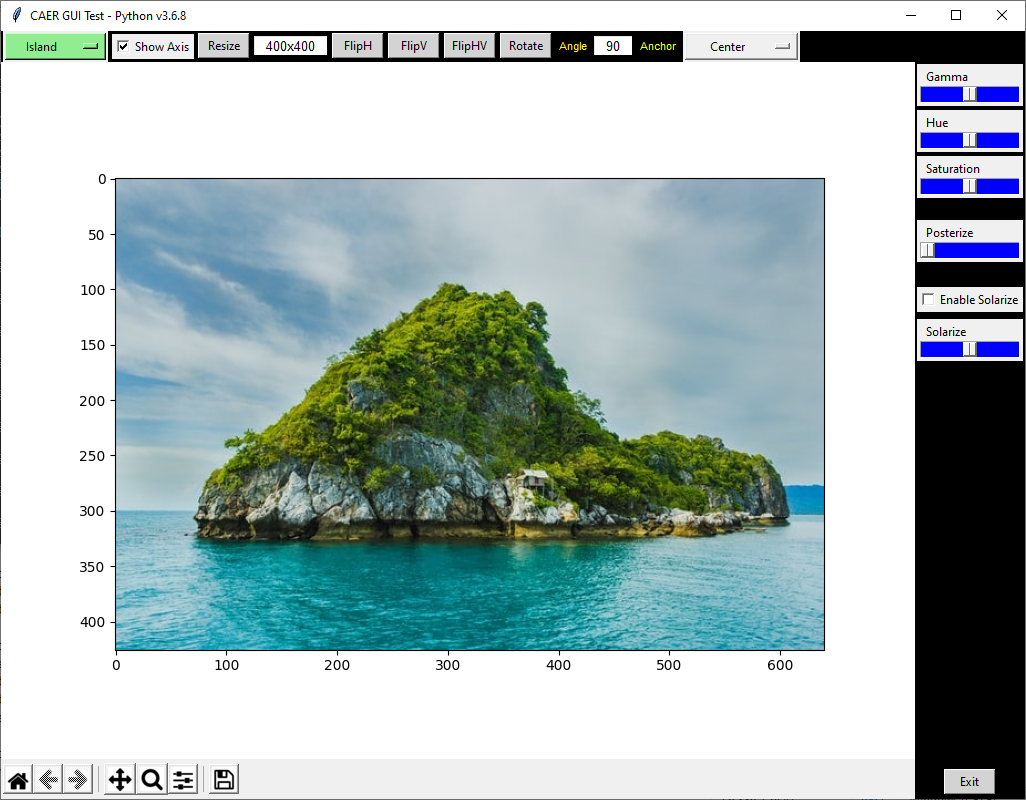
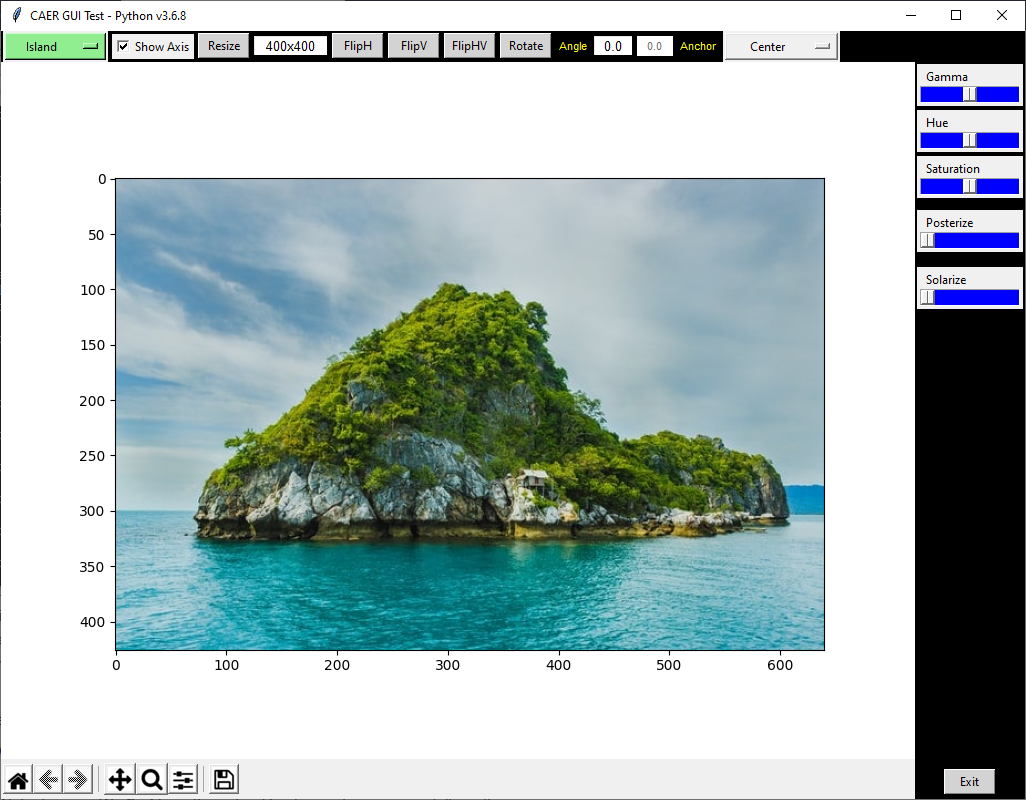
Rotation button set to rotate image with every tap
- Added label to show currently accumulated angle
- All rotation angle values reduced to range [-359, 359] while -360 and 360 values will be represented with 0
- BUG fix for missed 'Top Left' anchor not being renamed with previous update
- Removed the 'Enable Solarize' checkbox and changed the 'Solarize' slider so it can work on its own
- Updated comments
- Updated app's picture

Changed region(s): [[0.8733, 0.25, 0.9981, 0.4688], [0.5926, 0.0312, 0.8421, 0.0938], [0.9981, 0.0, 1.0, 0.0312]]

diff --git a/examples/caer_gui_test.py b/examples/caer_gui_test.py
@@ -1,4 +1,7 @@
-# Simple tkinter GUI app designed to showcase some caer features
+# Simple tkinter GUI app example, designed to showcase some caer features
+# Should only be used as a base to create a new GUI
+# It can be re-designed, controls re-grouped and code improved
+
 # Requirements: python3, caer, matplotlib
 
 # Run it either via IDLE or from command prompt / terminal with one of these commands:
@@ -9,15 +12,21 @@
 
 # Tested as working in Windows 10 with python v3.6.8 and Kubuntu Linux with python v3.6.8
 # You can select one of 9 built-in images to display (startup has "Island" selected as default)
+# Selecting any of the images, at any point in time, will always start with a fresh original image and reset controls.
 # Replace with or add your own image(s) by following the instructions here: https://caer.readthedocs.io/en/latest/api/io.html
 # The above will require that you modify main() and show_original_image() functions
 # All function controls are set to manipulate the currently displayed image
+# Gamma, Hue, Saturation, Posterize and Solarize effects are currently somewhat unique and, when applied to the image, will follow the following rule:
+# - Applying 'Resize', 'Rotate' and/or any of the 'Flip' functions to transformed image will preserve that image and have all the sliders reset
+# The above mentioned could be corrected by changing all those buttons to checkboxes and applying all the effects within a single function (similar to the current adjust_ghsps() function)
+# The 'Rotation' button is currently set to keep on rotating the image with every tap
 
 from matplotlib.backends.backend_tkagg import FigureCanvasTkAgg, NavigationToolbar2Tk
 from matplotlib.figure import Figure
 
 from tkinter import *
 import platform
+import math
 import caer
 
 pythonVersion = platform.python_version()
@@ -25,6 +34,8 @@ pythonVersion = platform.python_version()
 def show_original_image(*args):
     global currentImage
     global rotationApplied
+    global lblCurrentAngle
+    global currentAngle
     global resizedImgBtn
     global flipHImgBtn
     global flipVImgBtn
@@ -64,7 +75,10 @@ def show_original_image(*args):
         currentImage = caer.data.guitar(rgb=True)
 
     rotationApplied = False
-    reset_ghs()
+    currentAngle = 0.0
+    lblCurrentAngle['text'] = str(currentAngle)
+    selectedAngle.set('0.0')
+    reset_ghsps()
 
     image_show(currentImage)
 
@@ -96,14 +110,14 @@ def show_resized_image():
 
             if not transformedImage is None:
                 currentImage = transformedImage
-                reset_ghs()
+                reset_ghsps()
 
             # Resize the image without preserving aspect ratio
             currentImage = caer.resize(currentImage, target_size=(int(size[0]),int(size[1])), preserve_aspect_ratio=False)
             currentImage.cspace = 'rgb'
 
             if rotationApplied:
-                show_rotated_image()
+                show_rotated_image(True)
             else:
                 image_show(currentImage)
         except Exception as e:
@@ -131,13 +145,13 @@ def show_h_flipped_image():
 
     if not transformedImage is None:
         currentImage = transformedImage
-        reset_ghs()
+        reset_ghsps()
 
     currentImage = caer.transforms.hflip(currentImage)
     currentImage.cspace = 'rgb'
 
     if rotationApplied:
-        show_rotated_image()
+        show_rotated_image(True)
     else:
         image_show(currentImage)
 
@@ -163,13 +177,13 @@ def show_v_flipped_image():
 
     if not transformedImage is None:
         currentImage = transformedImage
-        reset_ghs()
+        reset_ghsps()
 
     currentImage = caer.transforms.vflip(currentImage)
     currentImage.cspace = 'rgb'
 
     if rotationApplied:
-        show_rotated_image()
+        show_rotated_image(True)
     else:
         image_show(currentImage)
 
@@ -195,19 +209,21 @@ def show_hv_flipped_image():
 
     if not transformedImage is None:
         currentImage = transformedImage
-        reset_ghs()
+        reset_ghsps()
 
     currentImage = caer.transforms.hvflip(currentImage)
     currentImage.cspace = 'rgb'
 
     if rotationApplied:
-        show_rotated_image()
+        show_rotated_image(True)
     else:
         image_show(currentImage)
 
-def show_rotated_image():
+def show_rotated_image(external = False):
     global currentImage
     global rotationApplied
+    global lblCurrentAngle
+    global currentAngle
     global resizedImgBtn
     global flipHImgBtn
     global flipVImgBtn
@@ -217,18 +233,34 @@ def show_rotated_image():
     angle = selectedAngle.get()
 
     if angle == '':
-        angle = '0'
+        angle = '0.0'
+        currentAngle = 0.0
         rotationApplied = False
-    elif angle == '0' or ((float(angle) > 0 or float(angle) < 0) and float(angle) % 360 == 0):
+    elif angle == '0.0' or ((float(angle) > 0 or float(angle) < 0) and math.fmod(float(angle), 360) == 0):
+        currentAngle = 0.0
         rotationApplied = False
     else:
-        rotationApplied = True
+        if not external:
+            currentAngle += float(angle)
 
-    anchor = None # Center point
+        mod = math.fmod(currentAngle, 360)
+
+        if currentAngle > 360 or currentAngle < -360:
+            currentAngle = mod
+            rotationApplied = True
+        elif mod == 0:
+            currentAngle = 0.0
+            rotationApplied = False
+        else:
+            rotationApplied = True
+
+    lblCurrentAngle['text'] = str(currentAngle)
 
     tempAnchorPoint = anchorSelection.get()
 
-    if tempAnchorPoint == 'Top Left':
+    if tempAnchorPoint == 'Center':
+        anchor = None
+    elif tempAnchorPoint == 'TopLeft':
         anchor = (0, 0)
     elif tempAnchorPoint == 'TopMiddle':
         anchor = ((currentImage.width() // 2), 0)
@@ -261,12 +293,12 @@ def show_rotated_image():
         # preserve current image and only display its rotated version
 
         if not transformedImage is None:
-            rot = caer.transforms.rotate(transformedImage, float(angle), rotPoint=anchor)
+            rot = caer.transforms.rotate(transformedImage, float(currentAngle), rotPoint=anchor)
             if not rotationApplied:
                 currentImage = transformedImage
-                reset_ghs()
+                reset_ghsps()
         else:
-            rot = caer.transforms.rotate(currentImage, float(angle), rotPoint=anchor)
+            rot = caer.transforms.rotate(currentImage, float(currentAngle), rotPoint=anchor)
 
         rot.cspace = 'rgb'
 
@@ -288,12 +320,7 @@ def refresh_axis():
 
     fig.canvas.draw()
 
-def enable_solarize():
-    sliderSolarize['state'] = 'normal' if checkEnableSolarize.get() == 1 else 'disabled'
-    solarize.set(128)
-    adjust_hsgps(None)
-
-def adjust_hsgps(*args):
+def adjust_ghsps(*args):
     global transformedImage
 
     # apply all transformations to currently displayed image
@@ -304,24 +331,23 @@ def adjust_hsgps(*args):
     if posterize.get() < 6:
         transformedImage = caer.transforms.posterize(transformedImage, posterize.get())
 
-    if checkEnableSolarize.get() == 1:
+    if solarize.get() < 255:
         transformedImage = caer.transforms.solarize(transformedImage, solarize.get())
 
     transformedImage.cspace = 'rgb'
     
     if rotationApplied:
-        show_rotated_image()
+        show_rotated_image(True)
     else:
         image_show(transformedImage)
 
-def reset_ghs():
+def reset_ghsps():
     global transformedImage
     global imgGamma
     global hue
     global saturation
     global posterize
     global solarize
-    global checkEnableSolarize
 
     transformedImage = None
 
@@ -330,8 +356,7 @@ def reset_ghs():
     hue.set(0.0)
     saturation.set(1.0)
     posterize.set(6)
-    checkEnableSolarize.set(0)
-    solarize.set(128)
+    solarize.set(255)
 
 def main():
     global root
@@ -342,7 +367,6 @@ def main():
     global transformedImage
     global imageSelection
     global checkShowAxis
-    global checkEnableSolarize
     global sliderSolarize
     global resizedImgBtn
     global flipHImgBtn
@@ -355,6 +379,8 @@ def main():
     global rotationAngle
     global anchorSelection
     global rotationApplied
+    global lblCurrentAngle
+    global currentAngle
     global imgGamma
     global hue
     global saturation
@@ -369,6 +395,7 @@ def main():
     currentImage = None
     transformedImage = None
     rotationApplied = False
+    currentAngle = 0.0
 
     # bind the 'q' keyboard key to quit
     root.bind('q', lambda event:root.destroy())
@@ -429,7 +456,11 @@ def main():
     selectedAngle = StringVar()
     rotationAngle = Entry(frame1, justify=CENTER, textvariable=selectedAngle, font='Helvetica 10', width=5, bg='white', relief=RAISED)
     rotationAngle.pack(side=LEFT, padx=2, pady=2)
-    selectedAngle.set('90')
+    selectedAngle.set('0.0')
+
+    # create a read-only label for the current angle
+    lblCurrentAngle = Label(frame1, text='0.0', state='disabled', fg='lightgrey', bg='white', font='Helvetica 8', width=5)
+    lblCurrentAngle.pack(side=LEFT, padx=2, pady=2)
 
     # create a label for the rotation anchor
     lblAnchor = Label(frame1, text='Anchor', fg='yellow', bg='black', font='Helvetica 8')
@@ -453,39 +484,33 @@ def main():
 
     # create the image gamma slider control
     imgGamma = DoubleVar()
-    sliderGamma = Scale(frame2, label='Gamma', variable=imgGamma, troughcolor='blue', from_=0.0, to=2.0, resolution=0.1, sliderlength=15, showvalue=False, orient=HORIZONTAL, command=adjust_hsgps)
+    sliderGamma = Scale(frame2, label='Gamma', variable=imgGamma, troughcolor='blue', from_=0.0, to=2.0, resolution=0.1, sliderlength=15, showvalue=False, orient=HORIZONTAL, command=adjust_ghsps)
     sliderGamma.pack(side=TOP, anchor=E, padx=2, pady=2)
     imgGamma.set(1.0)
 
     # create the image hue slider control
     hue = DoubleVar()
-    sliderHue = Scale(frame2, label='Hue', variable=hue, troughcolor='blue', from_=-0.5, to=0.5, resolution=0.05, sliderlength=15, showvalue=False, orient=HORIZONTAL, command=adjust_hsgps)
+    sliderHue = Scale(frame2, label='Hue', variable=hue, troughcolor='blue', from_=-0.5, to=0.5, resolution=0.05, sliderlength=15, showvalue=False, orient=HORIZONTAL, command=adjust_ghsps)
     sliderHue.pack(side=TOP, anchor=E, padx=2, pady=2)
     hue.set(0.0)
 
     # create the image saturation slider control
     saturation = DoubleVar()
-    sliderSaturation = Scale(frame2, label='Saturation', variable=saturation, troughcolor='blue', from_=0.0, to=2.0, resolution=0.1, sliderlength=15, showvalue=False, orient=HORIZONTAL, command=adjust_hsgps)
+    sliderSaturation = Scale(frame2, label='Saturation', variable=saturation, troughcolor='blue', from_=0.0, to=2.0, resolution=0.1, sliderlength=15, showvalue=False, orient=HORIZONTAL, command=adjust_ghsps)
     sliderSaturation.pack(side=TOP, anchor=E, padx=2, pady=2)
     saturation.set(1.0)
 
     # create the image posterize slider control
     posterize = IntVar()
-    sliderPosterize = Scale(frame2, label='Posterize', variable=posterize, troughcolor='blue', from_=6, to=1, resolution=1, sliderlength=15, showvalue=False, orient=HORIZONTAL, command=adjust_hsgps)
-    sliderPosterize.pack(side=TOP, padx=2, pady=20)
+    sliderPosterize = Scale(frame2, label='Posterize', variable=posterize, troughcolor='blue', from_=6, to=1, resolution=1, sliderlength=15, showvalue=False, orient=HORIZONTAL, command=adjust_ghsps)
+    sliderPosterize.pack(side=TOP, padx=2, pady=10)
     posterize.set(6)
-
-    # add 'Enable Solarize' checkbox
-    checkEnableSolarize = IntVar()
-    chbEnableSolarize = Checkbutton(frame2, text='Enable Solarize', variable=checkEnableSolarize, command=enable_solarize)
-    checkEnableSolarize.set(0)
-    chbEnableSolarize.pack(side=TOP, anchor=CENTER, padx=2, pady=5)
 
     # create the image solarize slider control
     solarize = IntVar()
-    sliderSolarize = Scale(frame2, label='Solarize', variable=solarize, state='disabled', troughcolor='blue', from_=0, to=255, resolution=1, sliderlength=15, showvalue=False, orient=HORIZONTAL, command=adjust_hsgps)
-    sliderSolarize.pack(side=TOP, anchor=E, padx=2, pady=2)
-    solarize.set(128)
+    sliderSolarize = Scale(frame2, label='Solarize', variable=solarize, troughcolor='blue', from_=255, to=0, resolution=1, sliderlength=15, showvalue=False, orient=HORIZONTAL, command=adjust_ghsps)
+    sliderSolarize.pack(side=TOP, padx=2, pady=5)
+    solarize.set(255)
 
     # add exit button
     exitBtn = Button(frame2, text='Exit', width=6, bg='lightgrey', relief=RAISED, command=root.destroy)
